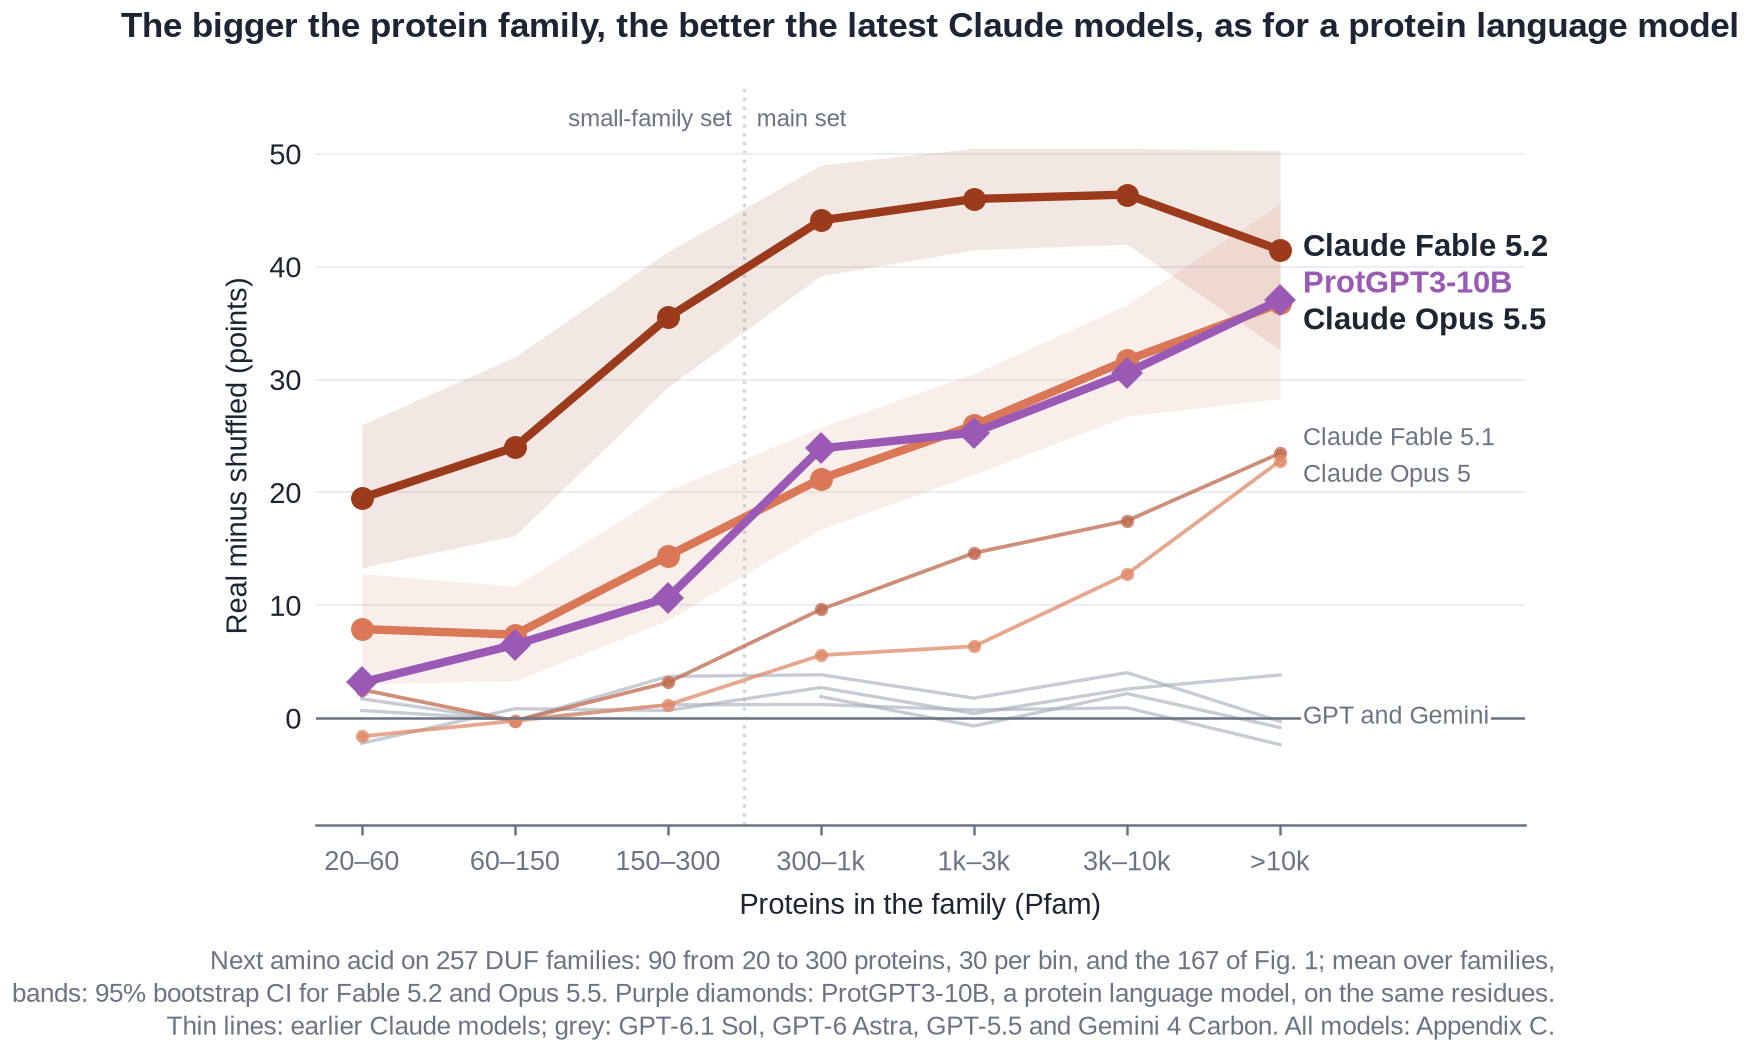
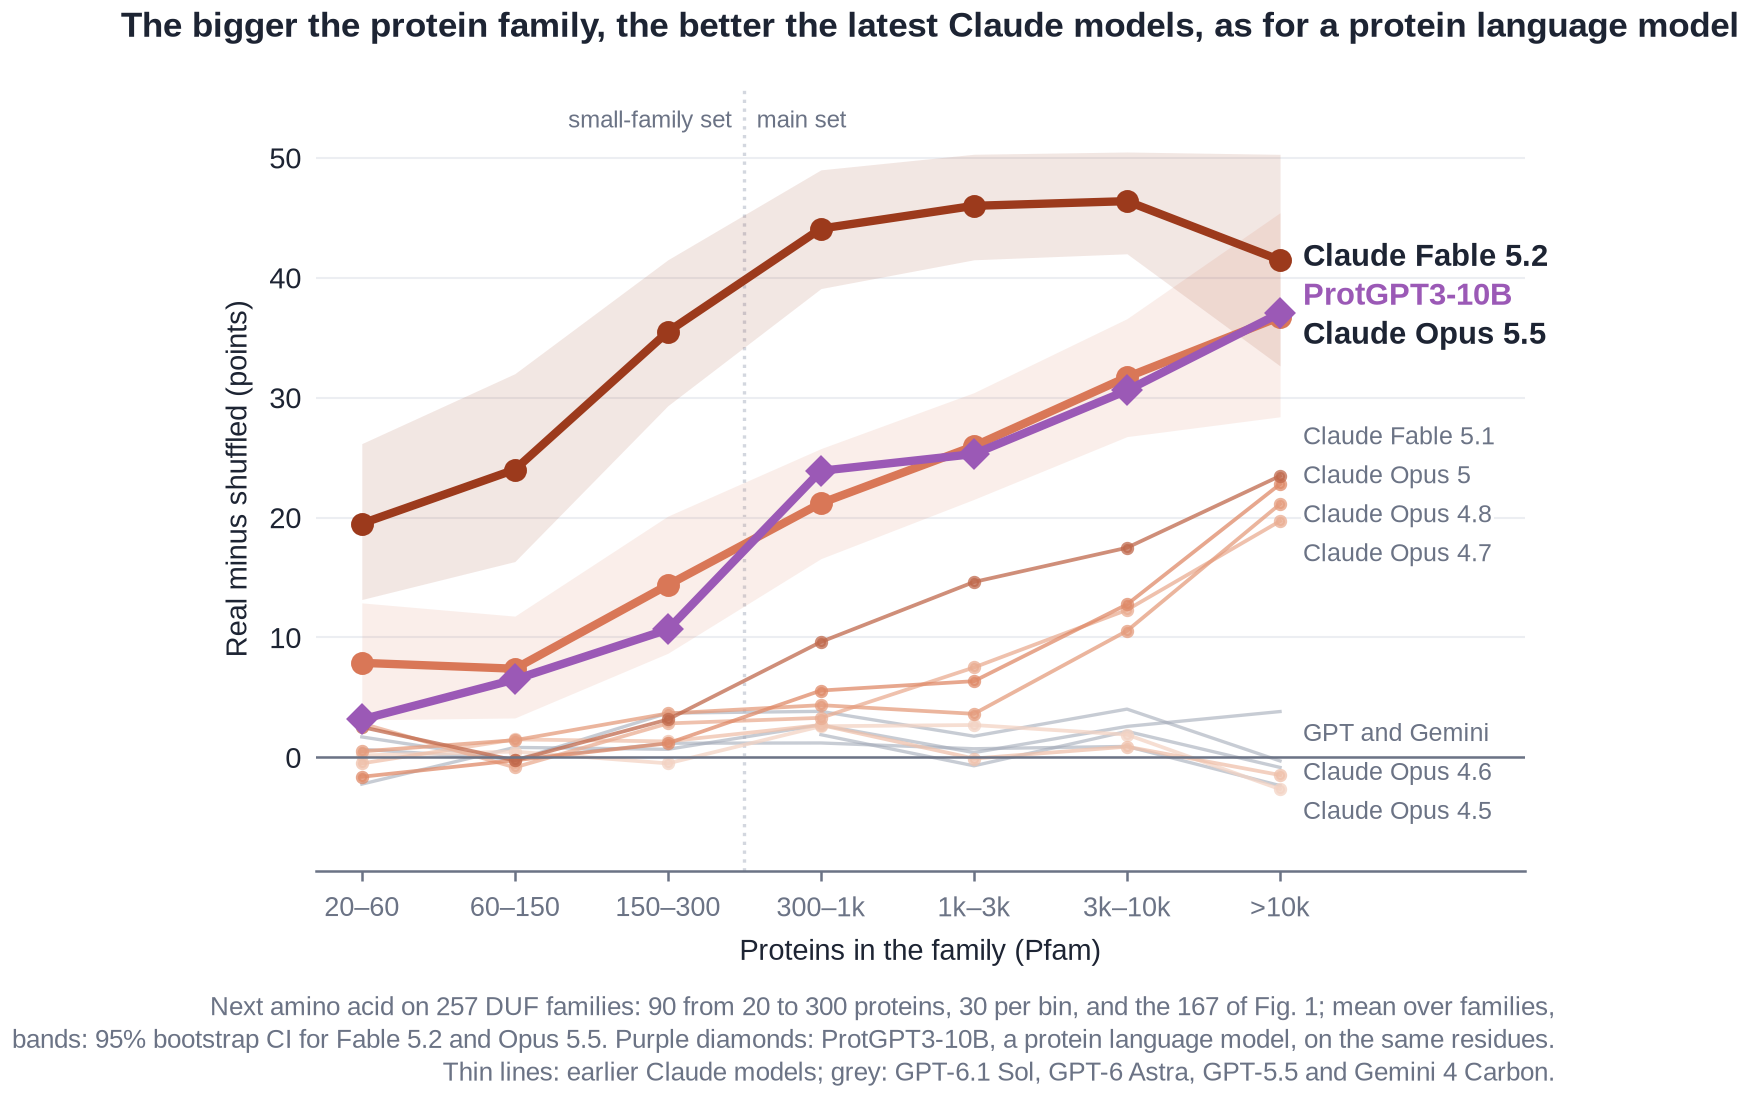
Bioseq post: every model in the family-size figure

diff --git a/_posts/2026-11-16-claude-opus-5-5-protein-sequences.md b/_posts/2026-11-16-claude-opus-5-5-protein-sequences.md
@@ -86,12 +86,12 @@ We give a model the start of a protein and ask for the next amino acids. Then we
   <figcaption>Percentages are Claude Opus 5.5's accuracy over all 668 proteins. The real row and its answer come from the test set; the shuffled row is schematic.</figcaption>
 </figure>
 
-The test set is 668 bacterial and archaeal proteins from 167 Pfam families of unknown function. No family has a solved structure or more than three papers, and no protein has a close relative in UniProt. Each protein is cut at five points, and we score the first residue after each cut. Thinking is at its lowest setting. Appendix F has the details.
+The test set is 668 bacterial and archaeal proteins from 167 Pfam families of unknown function. No family has a solved structure or more than three papers, and no protein has a close relative in UniProt. Each protein is cut at five points, and we score the first residue after each cut. Thinking is at its lowest setting. Appendix E has the details.
 
 ## Results: only the latest Claude models predict them
 
 <figure class="bp-figure" markdown="0">
-  <img src="{{ '/assets/img/llm-bioseq-probe/fig1_protein.png' | relative_url }}?v=20261117g" alt="Forest plot of the real-minus-shuffled gap for 20 language models: Claude Fable 5.2 at +45.1 points, Claude Opus 5.5 at +27.4, Claude Fable 5.1 at +14.9, earlier Claude Opus models up to 10, every other model between 0 and 3.">
+  <img src="{{ '/assets/img/llm-bioseq-probe/fig1_protein.png' | relative_url }}?v=20261117h" alt="Forest plot of the real-minus-shuffled gap for 20 language models: Claude Fable 5.2 at +45.1 points, Claude Opus 5.5 at +27.4, Claude Fable 5.1 at +14.9, earlier Claude Opus models up to 10, every other model between 0 and 3.">
   <figcaption>Filled points: the chat prompt. Hollow points: raw next-token continuation of the FASTA text, through a completion endpoint or a prefilled reply, for models that allow it.</figcaption>
 </figure>
 
@@ -102,20 +102,20 @@ Fable 5.2 gets the next amino acid right 54% of the time on real proteins and 9%
 Protein language models learn only from sequences, so they are the natural yardstick. The closest to an LLM is ProtGPT3<d-cite key="garibbo2026protgpt3"></d-cite>: it reads a protein left to right and predicts the next residue, and its 10-billion-parameter version is the largest open model of its kind. On the same input, Opus 5.5 matches it and Fable 5.2 beats it.
 
 <figure class="bp-figure" markdown="0">
-  <img src="{{ '/assets/img/llm-bioseq-probe/fig6_protein_lm.png' | relative_url }}?v=20261117g" alt="Dot plot: Claude Fable 5.2 +45.1 at the top, then ProtGPT3-10B +27.7 and Claude Opus 5.5 +27.4; ESM C 600M +13.0, ProtGPT3-1.3B +11.6, ProtGPT2 +10.2, ESM3-open +8.5 and ESM-2 650M +7.0 well below.">
+  <img src="{{ '/assets/img/llm-bioseq-probe/fig6_protein_lm.png' | relative_url }}?v=20261117h" alt="Dot plot: Claude Fable 5.2 +45.1 at the top, then ProtGPT3-10B +27.7 and Claude Opus 5.5 +27.4; ESM C 600M +13.0, ProtGPT3-1.3B +11.6, ProtGPT2 +10.2, ESM3-open +8.5 and ESM-2 650M +7.0 well below.">
 </figure>
 
-ESM models are trained to see both sides of a residue, so continuing from the left is harder for them. Appendix D has all seven models.
+ESM models are trained to see both sides of a residue, so continuing from the left is harder for them. Appendix C has all seven models.
 
 ## Evidence that this comes from training data
 
 If the models learned from sequences, families with more sequences should be easier. To test this over a wide range, we added 90 smaller families, down to 20 proteins each, for 257 families in all.
 
 <figure class="bp-figure" markdown="0">
-  <img src="{{ '/assets/img/llm-bioseq-probe/fig5_family_size.png' | relative_url }}?v=20261117g" alt="Line chart over seven family-size bins from 20 to over 10,000 proteins: Claude Opus 5.5 and ProtGPT3-10B rise together, almost on top of each other; Claude Fable 5.2 rises fastest and levels off from about 300 proteins; Fable 5.1 and Opus 5 rise at a lower level; GPT and Gemini stay at zero.">
+  <img src="{{ '/assets/img/llm-bioseq-probe/fig5_family_size.png' | relative_url }}?v=20261117h" alt="Line chart over seven family-size bins from 20 to over 10,000 proteins: Claude Opus 5.5 and ProtGPT3-10B rise together, almost on top of each other; Claude Fable 5.2 rises fastest and levels off from about 300 proteins; Fable 5.1 and Opus 4.7 to 5 rise at a lower level; Opus 4.5 and 4.6, GPT and Gemini stay at zero.">
 </figure>
 
-They are. Opus 5.5 and ProtGPT3-10B, which is trained on nothing but sequences, rise together, almost on top of each other. Fable 5.2 rises fastest and levels off at about 300 proteins per family. Earlier Claude models rise at a lower level, and GPT and Gemini stay at zero (all models: Appendix C).
+They are. Opus 5.5 and ProtGPT3-10B, which is trained on nothing but sequences, rise together, almost on top of each other. Fable 5.2 rises fastest and levels off at about 300 proteins per family. Earlier Claude models rise at a lower level, and GPT and Gemini stay at zero.
 
 Two other explanations don't fit:
 
@@ -127,7 +127,7 @@ Two other explanations don't fit:
 Famous proteins are a different story. Many models do well on them, and several recite hundreds of residues letter for letter (Appendix B), because these sequences are all over papers and the web. In a first round with famous and obscure proteins side by side, Gemini 4 Carbon was strong on the famous ones and dropped to almost nothing on the obscure ones. Opus 5.5 and ProtGPT3-10B held up.
 
 <figure class="bp-figure" markdown="0">
-  <img src="{{ '/assets/img/llm-bioseq-probe/fig3_known_vs_obscure.png' | relative_url }}?v=20261117g" alt="Dumbbell chart: on well-known proteins many models score high; on obscure proteins Claude Opus 5.5 and ProtGPT3-10B stay high while Gemini 4 Carbon drops to near zero.">
+  <img src="{{ '/assets/img/llm-bioseq-probe/fig3_known_vs_obscure.png' | relative_url }}?v=20261117h" alt="Dumbbell chart: on well-known proteins many models score high; on obscure proteins Claude Opus 5.5 and ProtGPT3-10B stay high while Gemini 4 Carbon drops to near zero.">
   <figcaption>This first round predates Fable 5.2 and GPT-6.1 Sol.</figcaption>
 </figure>
 
@@ -161,7 +161,7 @@ All code, test sets, model outputs and figures are in [llm-bioseq-probe](https:/
 ### A. DNA
 
 <figure class="bp-figure" markdown="0">
-  <img src="{{ '/assets/img/llm-bioseq-probe/fig2_dna.png' | relative_url }}?v=20261117g" alt="Forest plot by genomic region: Claude Opus 5.5 predicts human and mouse coding sequence; nothing clear elsewhere.">
+  <img src="{{ '/assets/img/llm-bioseq-probe/fig2_dna.png' | relative_url }}?v=20261117h" alt="Forest plot by genomic region: Claude Opus 5.5 predicts human and mouse coding sequence; nothing clear elsewhere.">
 </figure>
 
 220-nucleotide windows, 200 shown and 20 to predict, from hg38, mm39 and the bacterial genes behind the test proteins, 500 per region. Non-coding windows contain no repeats, and the control shuffles each window keeping its dinucleotide counts. Opus 5.5 wrote all 20 nucleotides right 25 times in 500 human coding windows; a blind guess does that about once in a trillion. Gemini 4 Carbon blocks most DNA prompts before answering, so it is not shown.
@@ -173,32 +173,24 @@ All code, test sets, model outputs and figures are in [llm-bioseq-probe](https:/
 **Every position.** Scored one position at a time, the gap falls slowly for Fable 5.2 and Opus 5.5. Fable 5.1 and Opus 4.7, 4.8 and 5 fade faster, and the other 14 models, including those run as raw continuation, stay near zero all the way.
 
 <figure class="bp-figure" markdown="0">
-  <img src="{{ '/assets/img/llm-bioseq-probe/fig7_by_position.png' | relative_url }}?v=20261117g" alt="Line chart: real-minus-shuffled gap at positions 1 to 10 of the reply; Claude Opus 5.5 falls from 27.4 to 18.5, Opus 4.7 to 5 from about 9 to between 2 and 5, other models near zero.">
+  <img src="{{ '/assets/img/llm-bioseq-probe/fig7_by_position.png' | relative_url }}?v=20261117h" alt="Line chart: real-minus-shuffled gap at positions 1 to 10 of the reply; Claude Opus 5.5 falls from 27.4 to 18.5, Opus 4.7 to 5 from about 9 to between 2 and 5, other models near zero.">
 </figure>
 
 **Runs in a row.** On shuffled proteins neither Fable 5.2 nor Opus 5.5 gets more than 3 residues in a row. Once on track they get surer: after one right residue, Opus 5.5 gets the next right 47% of the time, after four in a row 68%.
 
 <figure class="bp-figure" markdown="0">
-  <img src="{{ '/assets/img/llm-bioseq-probe/fig8_runs.png' | relative_url }}?v=20261117g" alt="Line chart: share of replies whose first k residues are all right; Claude Opus 5.5 starts at 35% and stays above other models out to 10 residues, while its shuffled curve drops to zero by 3.">
+  <img src="{{ '/assets/img/llm-bioseq-probe/fig8_runs.png' | relative_url }}?v=20261117h" alt="Line chart: share of replies whose first k residues are all right; Claude Opus 5.5 starts at 35% and stays above other models out to 10 residues, while its shuffled curve drops to zero by 3.">
 </figure>
 
 **Reciting well-known proteins.** At 158 points in well-studied proteins, each model was asked for the next 200 residues at once.
 
 <figure class="bp-figure" markdown="0">
-  <img src="{{ '/assets/img/llm-bioseq-probe/fig4_recall.png' | relative_url }}?v=20261117g" alt="Bar chart: how often each model continues a famous protein letter for letter for 50, 100 and 200 residues.">
+  <img src="{{ '/assets/img/llm-bioseq-probe/fig4_recall.png' | relative_url }}?v=20261117h" alt="Bar chart: how often each model continues a famous protein letter for letter for 50, 100 and 200 residues.">
 </figure>
 
 GPT-6.1 Sol never reaches 100 residues, and GPT-5.5 never gets past 2.
 
-### C. Family size for every model
-
-<figure class="bp-figure" markdown="0">
-  <img src="{{ '/assets/img/llm-bioseq-probe/fig5b_family_size_all.png' | relative_url }}?v=20261117g" alt="Line chart: the gap by family size for 12 language models and ProtGPT3-10B; Claude Fable 5.2, Opus 5.5 and ProtGPT3-10B rise steeply, Fable 5.1 and Opus 4.7 to 5 rise at a lower level, Opus 4.5 and 4.6, GPT and Gemini stay near zero.">
-</figure>
-
-Over all 257 families, the Spearman correlation between a family's gap and the log of its size is 0.50 for Opus 5.5, 0.46 for ProtGPT3-10B, 0.38 for Fable 5.2, and 0.30 to 0.48 for Fable 5.1 and Opus 4.7 to 5 (all p < 10<sup>-6</sup>); for Opus 4.5 and 4.6 it is about 0.
-
-### D. Protein language models
+### C. Protein language models
 
 | Model | Reads | Input | Real | Shuffled | Real minus shuffled, points (95% CI) |
 |---|---|---|---|---|---|
@@ -212,9 +204,10 @@ Over all 257 families, the Spearman correlation between a family's gap and the l
 
 ProtGPT3-10B gets more answers right than Opus 5.5 (38.4% vs 34.9%) but also more on shuffled proteins (10.7% vs 7.5%), because it knows amino acid composition better; the gap between the two, which is what each model knows about order, comes out the same. The last row is fill-in-the-blank rather than continuation: ESM-2 also sees the residues after the cut, which the LLMs never get. Every model first passed a sanity check on well-known proteins. Continuing ubiquitin and hemoglobin β from the left, ProtGPT3-10B gets 100% and 84% of residues right; with the whole protein and one residue masked, ESM-2 gets 80% of ubiquitin, ESM C and ESM3-open 100%. Masks are set on token ids, because the ESM SDK's "_" character is not ESM C's mask token. ProtGPT2 uses multi-residue tokens, so a residue's probability is the sum over the tokens that start with it; ProtGPT3 uses one token per residue.
 
-### E. Robustness
+### D. Robustness
 
 - **Across families.** The gap is positive in 98% of families for Fable 5.2 and 95% for Opus 5.5.
+- **Family size.** Over all 257 families, the Spearman correlation between a family's gap and the log of its size is 0.50 for Opus 5.5, 0.46 for ProtGPT3-10B, 0.38 for Fable 5.2, and 0.30 to 0.48 for Fable 5.1 and Opus 4.7 to 5 (all p < 10<sup>-6</sup>); for Opus 4.5 and 4.6 it is about 0.
 - **Papers.** In the 128 families with no papers at all, the gap is 45.9 points for Fable 5.2 and 26.8 for Opus 5.5, against 45.1 and 27.4 over all 167. For Opus 5.5 it still rises with family size there (Spearman 0.28, p = 0.001), and across families it is unrelated to the number of papers (Spearman 0.05).
 - **Prompt format.** Asking Opus 5.5 to copy the sequence first and then continue gives the same gap as the standard prompt (19.3 vs 19.8 points on the same subset of questions).
 - **Refusals.** Non-answers (1% for Opus 5.5) are excluded; counting them as wrong changes its gap by under 1 point. GPT-4o, DeepSeek, Qwen, Kimi, GLM and gpt-oss often declined to guess; a best-guess prompt made them answer, with the same result.
@@ -223,7 +216,7 @@ ProtGPT3-10B gets more answers right than Opus 5.5 (38.4% vs 34.9%) but also mor
 - **Repeat runs.** Asked 400 of the same questions again, Fable 5.2 scores 57.5% on real and 9.5% on shuffled proteins, against 57.5% and 8.5% the first time.
 - **A first round.** A smaller run of 20 models on 37 families, half well-known and half obscure, gave the same picture and set the design of the main run.
 
-### F. Methods
+### E. Methods
 
 **Choosing the proteins.** We started from every Pfam family whose name says "domain of unknown function" (DUF) or "protein of unknown function", and kept those with no structure in the PDB, at most 3 Europe PMC hits for the family's accession, and at least 300 member proteins. We binned them by size (300 to 1,000 proteins, 1,000 to 3,000, 3,000 to 10,000, over 10,000) and drew 50 families per bin at random; only 17 families qualify above 10,000, so the set has 167. From each family we took 4 proteins from UniProt that are unreviewed (TrEMBL), come from Bacteria or Archaea, are 120 to 800 residues long, use only the 20 standard amino acids, are not low-complexity (Shannon entropy above 3.9 bits per residue), and are alone in their UniRef90 cluster, so no other UniProt protein is 90% or more identical to them. That gives 668 proteins.
 
@@ -259,6 +252,6 @@ Each model runs through its own API with temperature 0 where it is accepted, thi
 
 Total API cost was about $700, plus a few dollars of GPU time for the protein language models.
 
-### G. Safety behaviour seen along the way
+### F. Safety behaviour seen along the way
 
 Gemini 4 Carbon blocked about 75% of DNA prompts outright. OpenAI rejected 23 GPT-6 requests in the first round and 17 GPT-6.1 Sol requests in the main run as possible biological misuse. Claude Sonnet 4.5 refused 97% of requests that started its reply with a protein sequence, and Anthropic's filter blocked 44% of Claude Fable 5's questions as cyber content.
